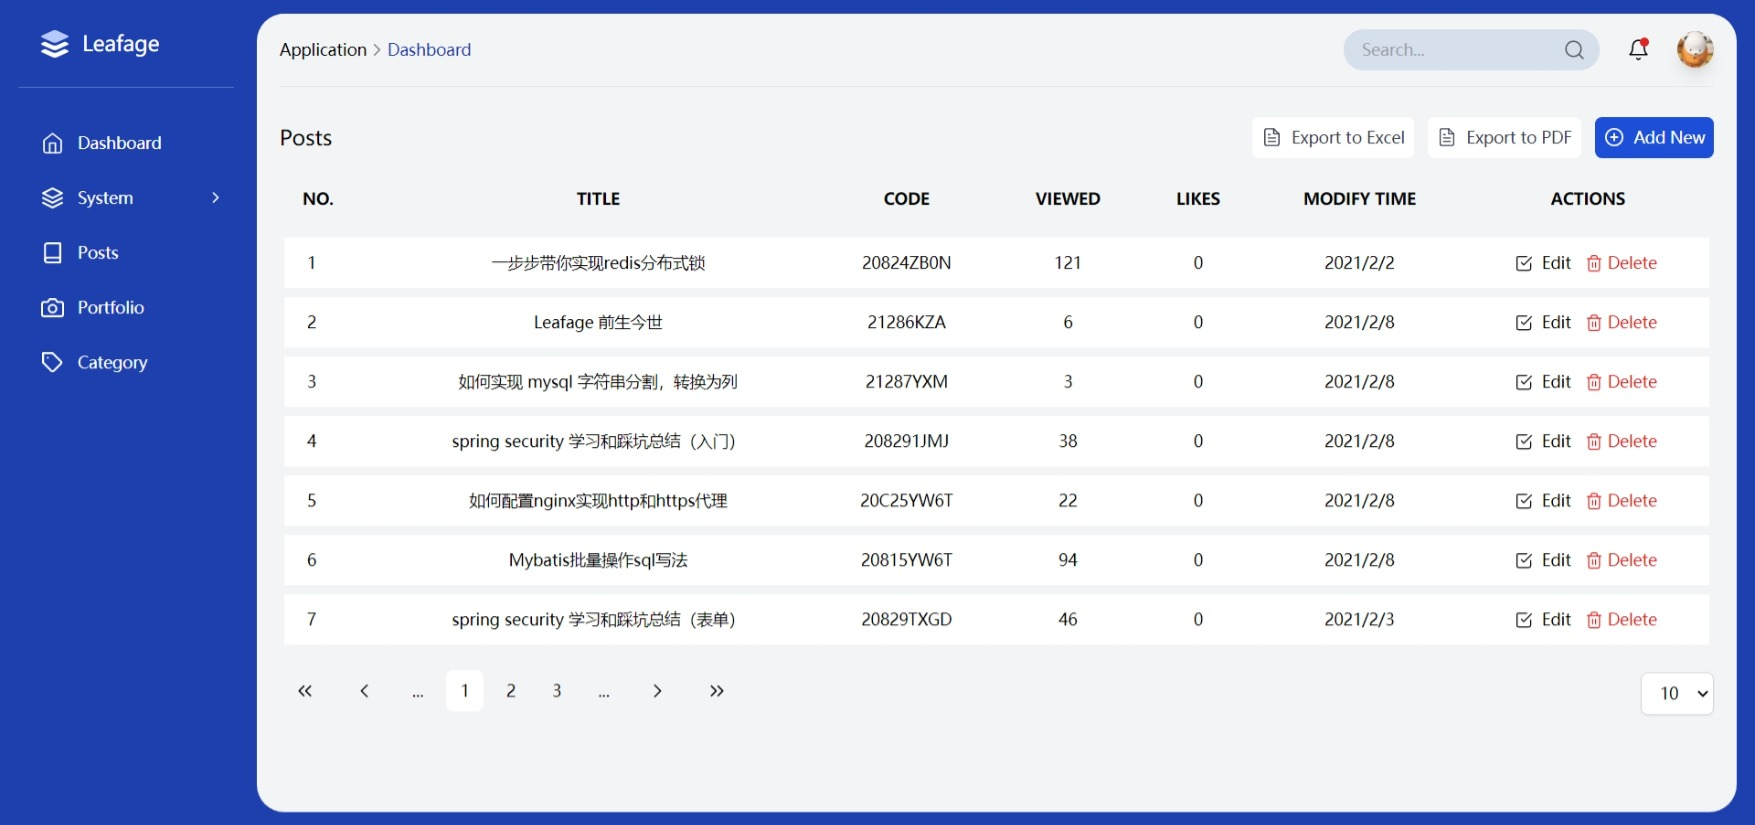
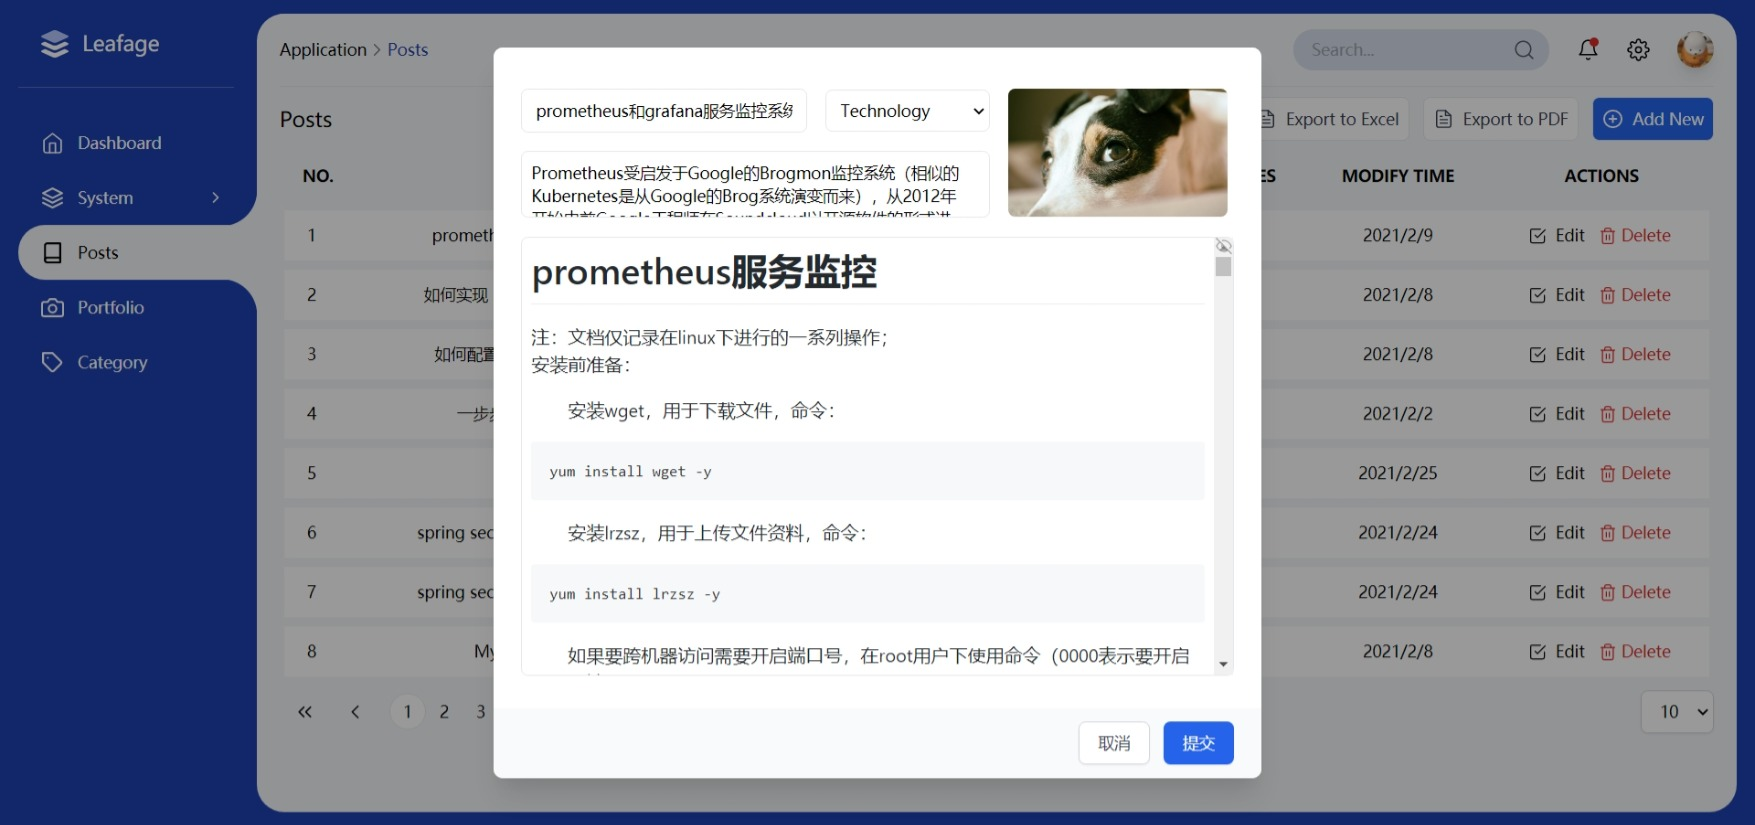
更新md

diff --git a/README.md b/README.md
@@ -32,8 +32,14 @@
 
 ### 展示截图
 
+控制台
+<img alt="dashboard" width="100%" src="src/assets/images/dashboard.jpeg">
+
+登录页
 <img alt="signin" width="100%" src="src/assets/images/signin.jpeg">
-<img alt="dashboard" width="100%" src="src/assets/images/posts.jpeg">
+
+列表页+model
+<img alt="posts" width="100%" src="src/assets/images/posts.jpeg">
 
 ### 项目地址
 
